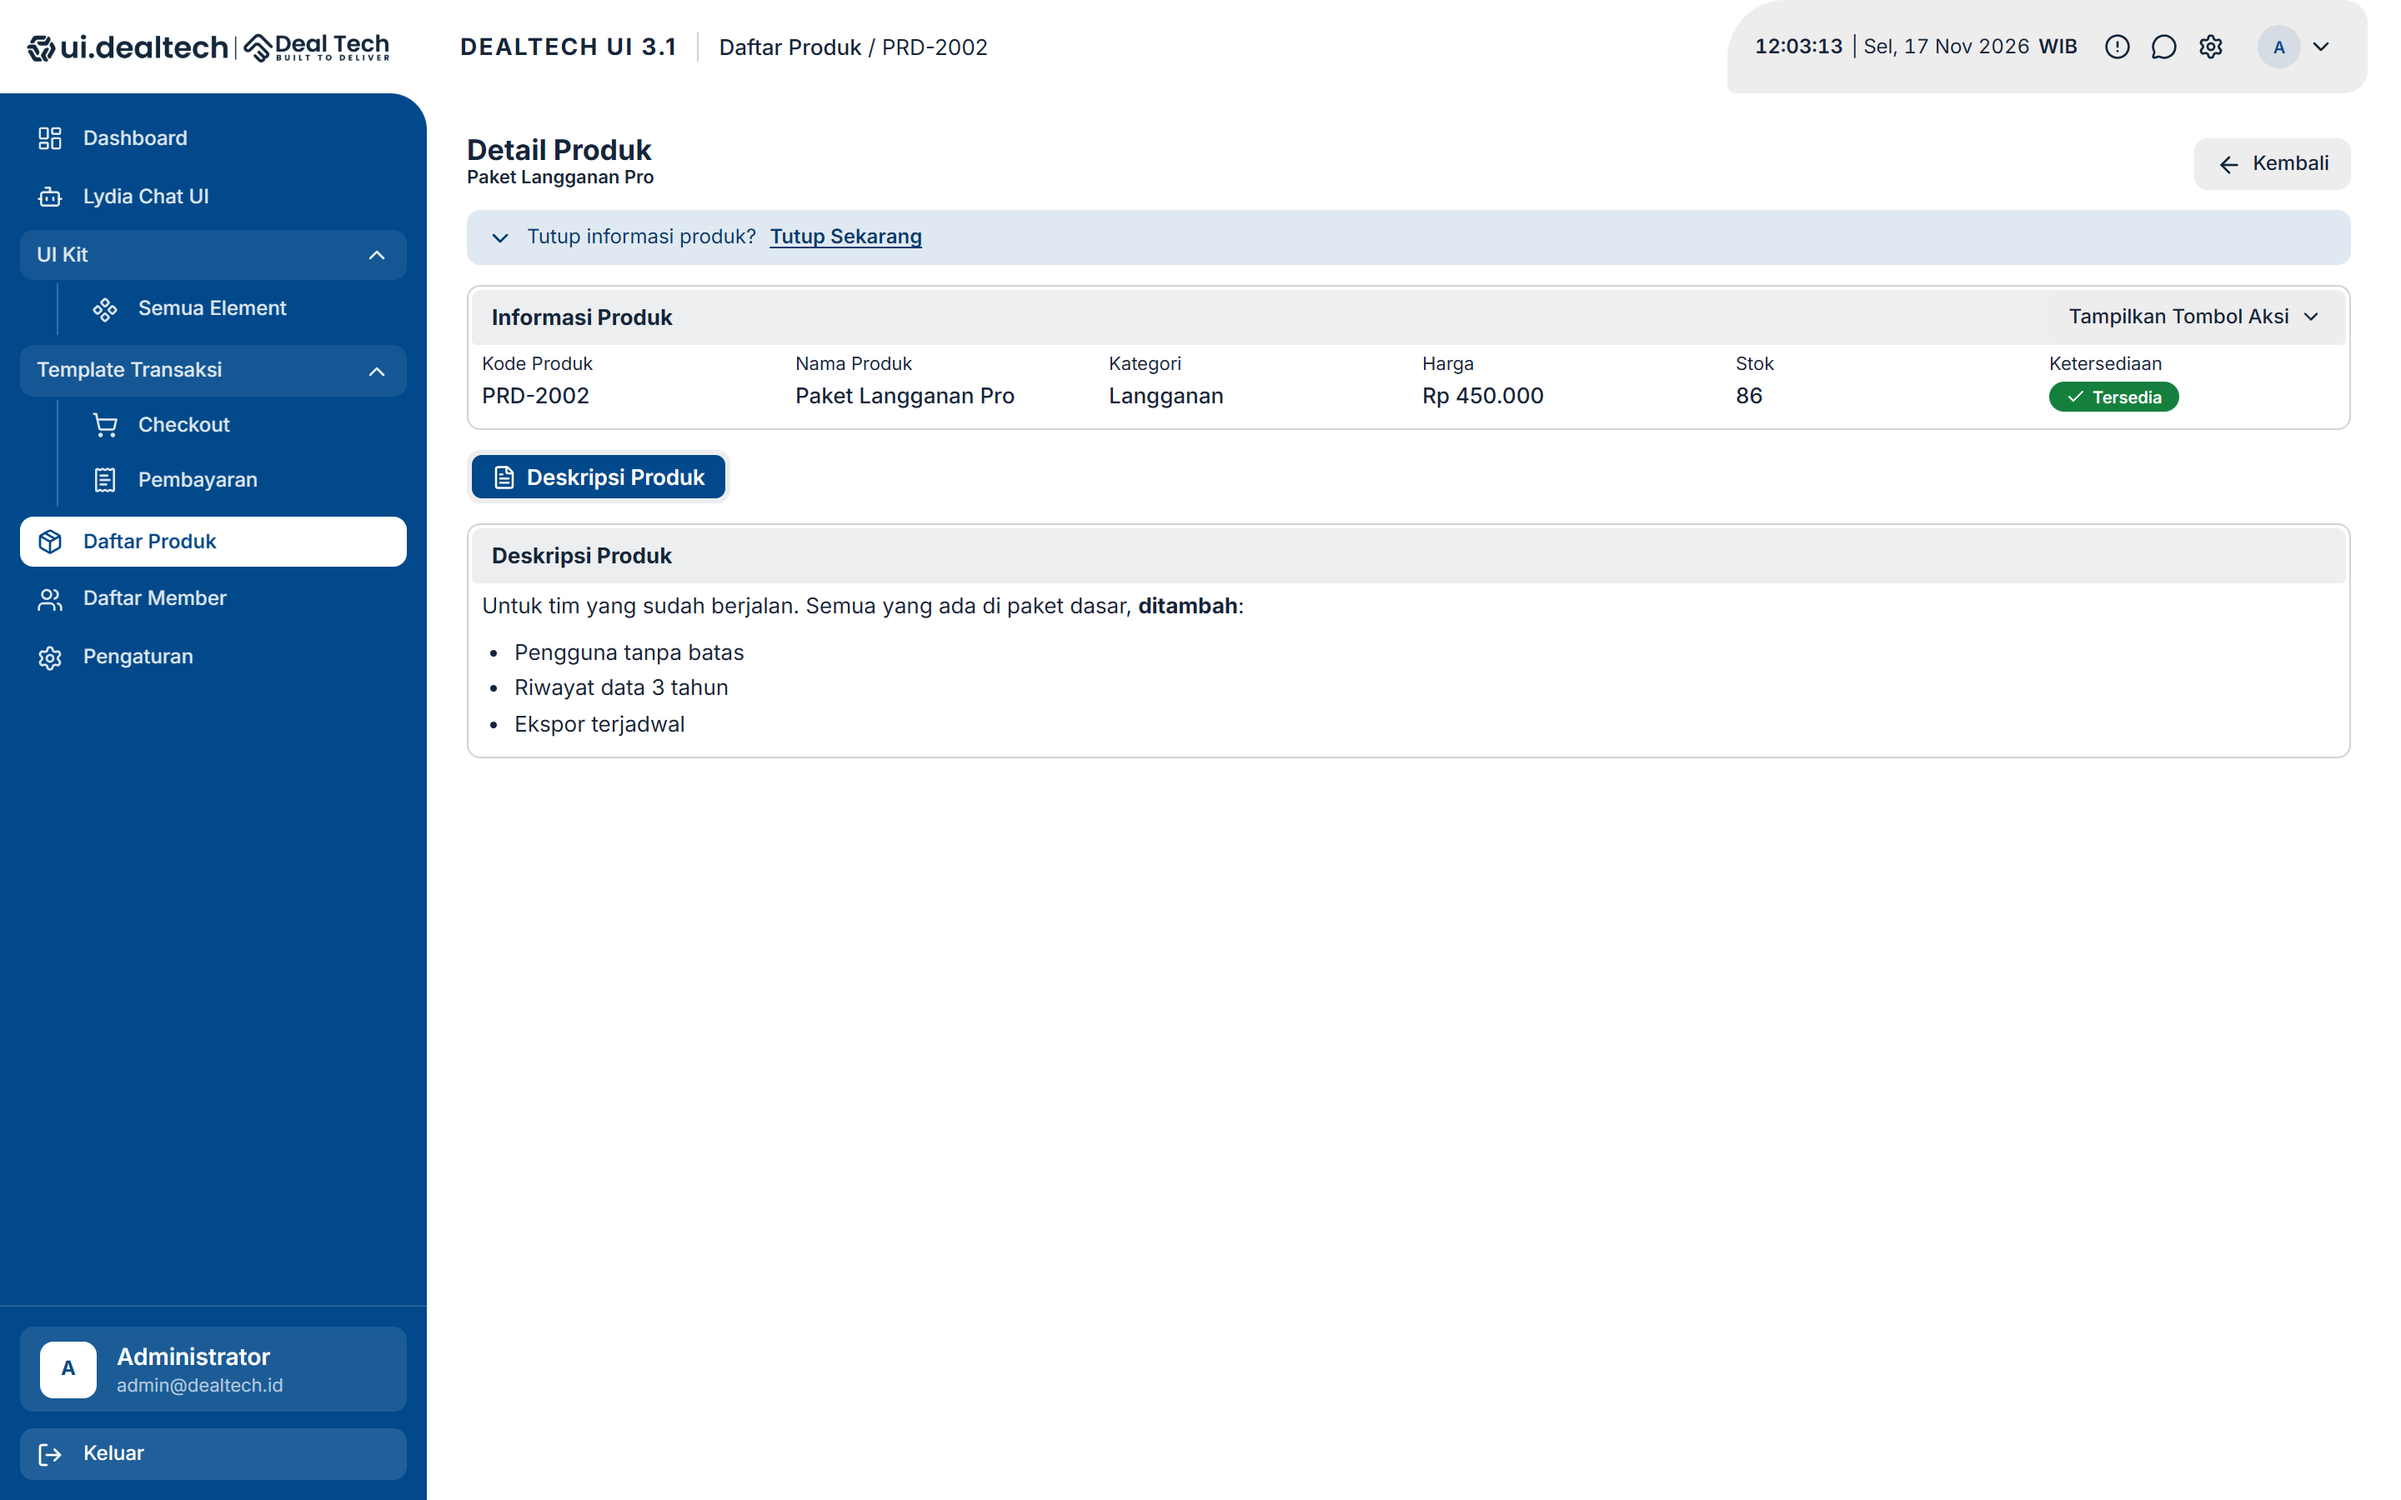
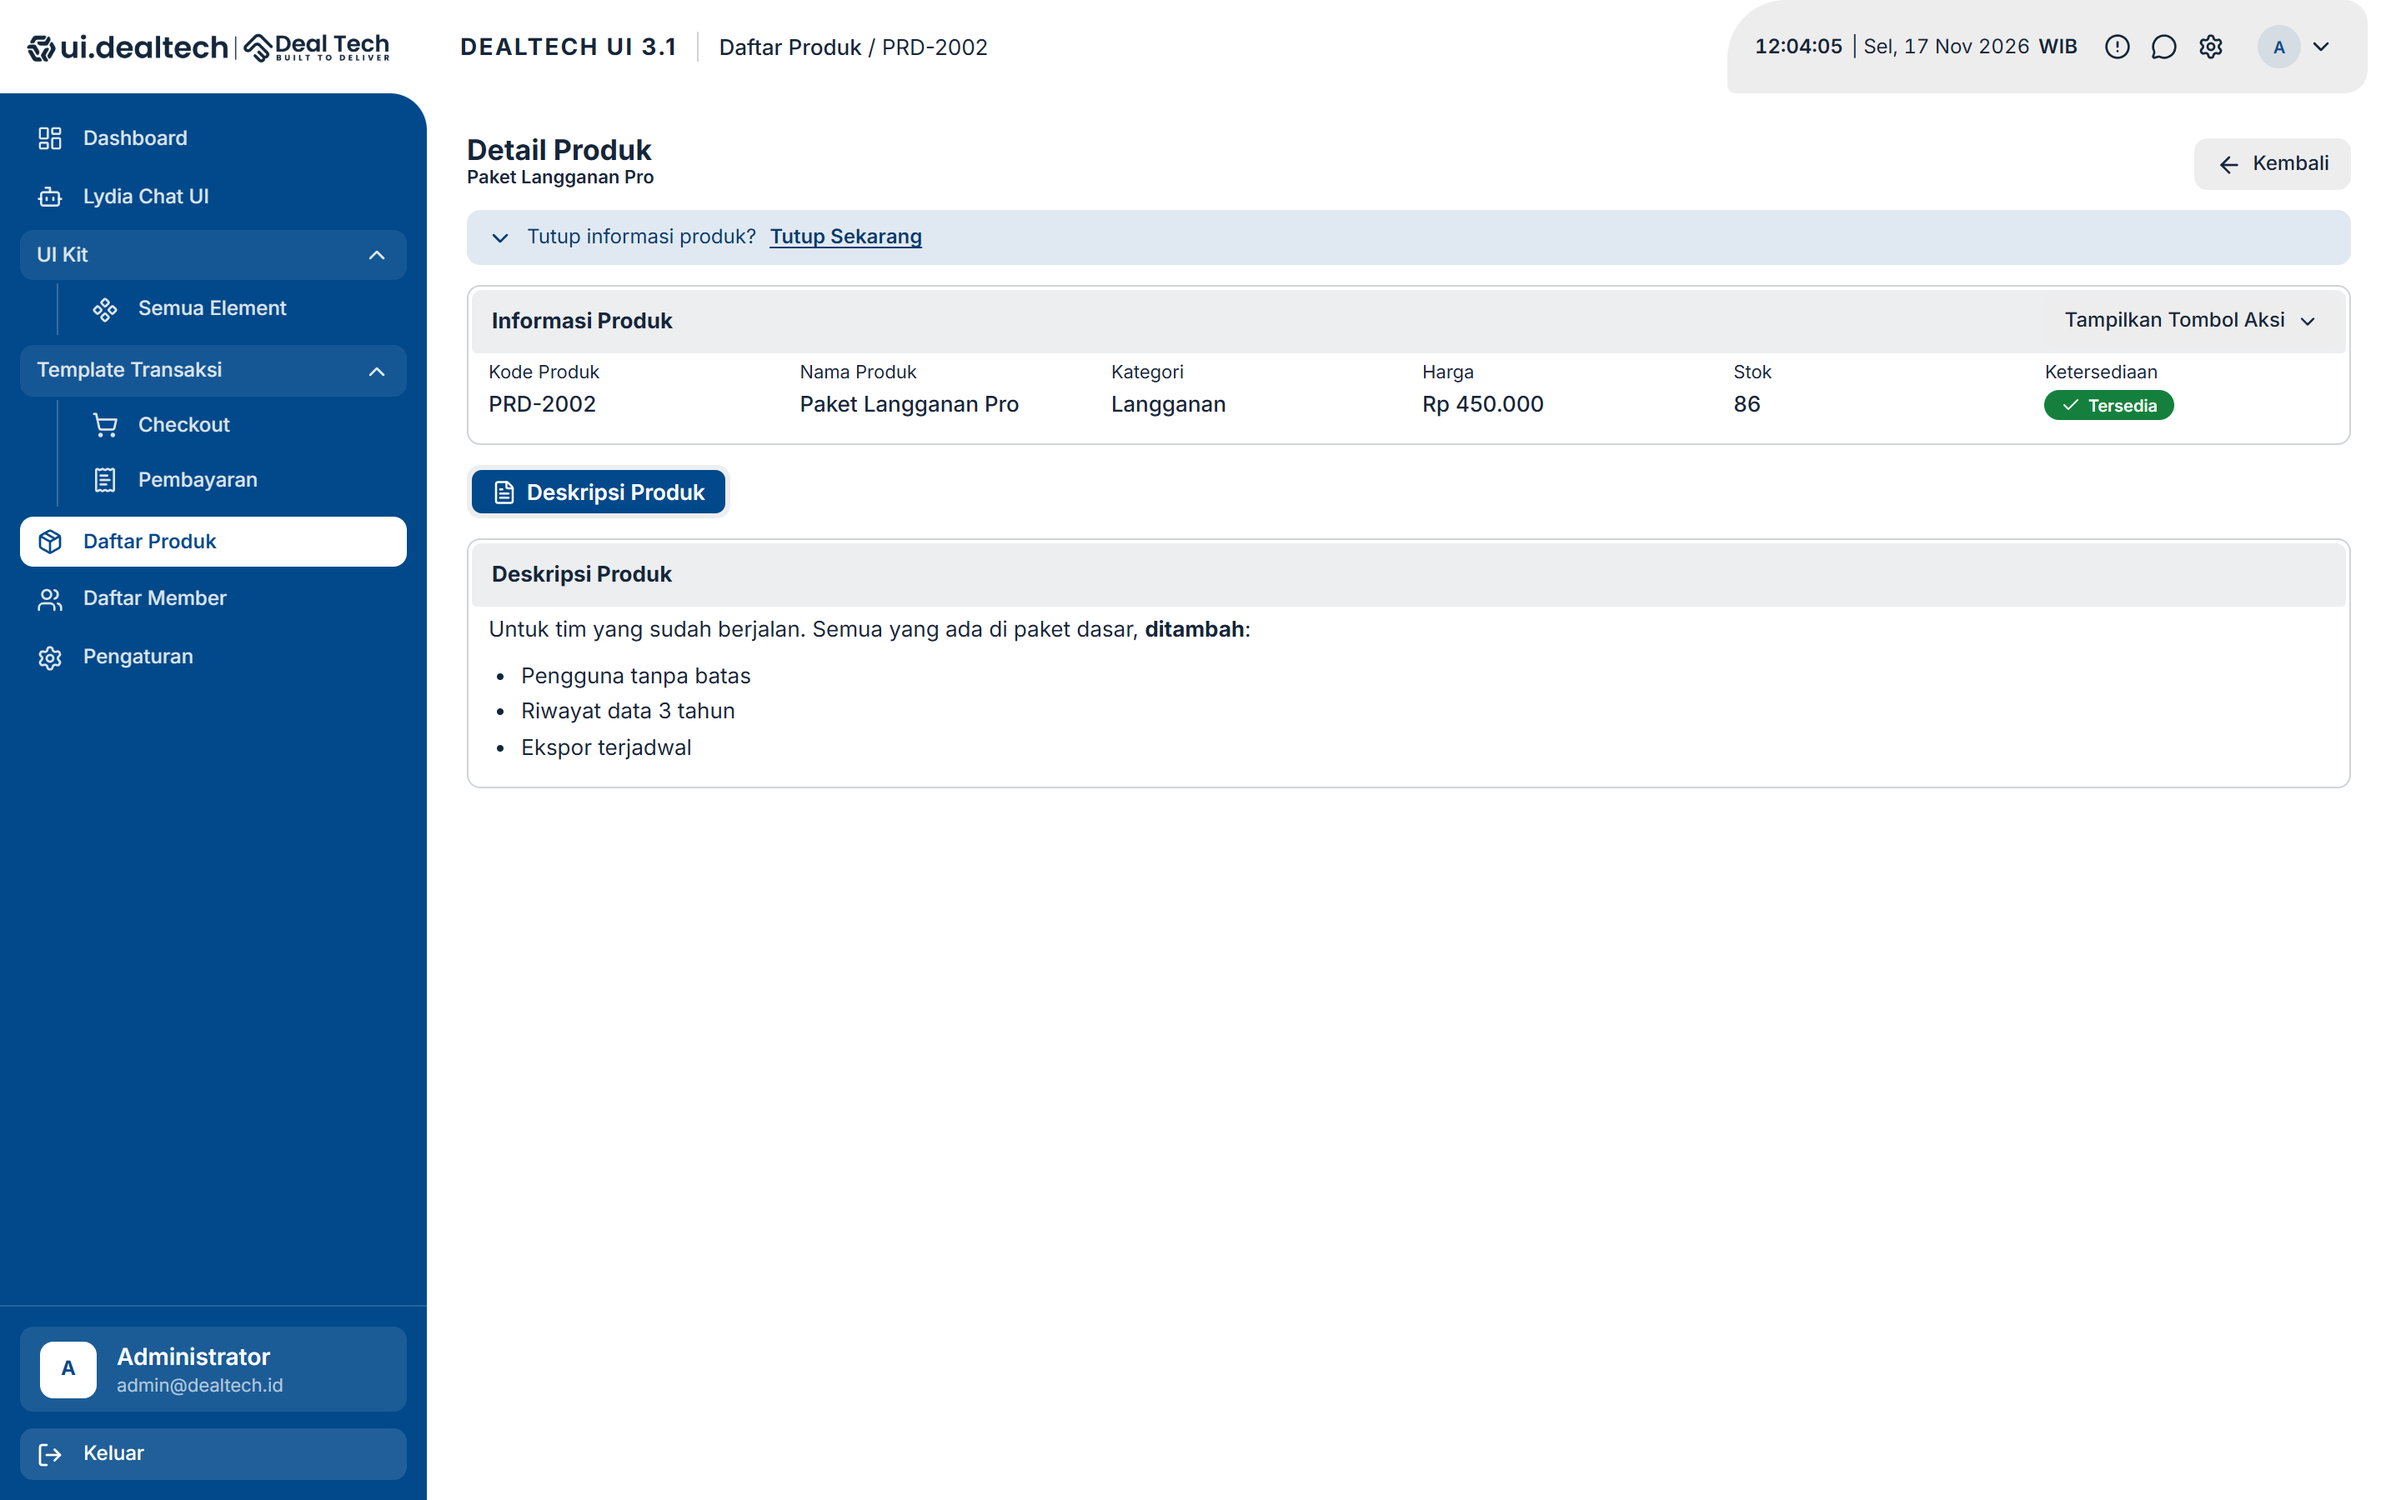
improve section header and body spacing back halfway

diff --git a/templates/starter-v3.1/src/components/ui/seksi/seksi.css b/templates/starter-v3.1/src/components/ui/seksi/seksi.css
@@ -1,10 +1,10 @@
 .seksi__kepala {
   display: flex;
-  min-height: 32.8px;
+  min-height: 37.8px;
   align-items: center;
   gap: 10px;
   margin: 2px 2px 0;
-  padding: 1px 1px 1px 6px;
+  padding: 3.5px 3.5px 3.5px 6px;
   border-radius: 6px 6px 3px 3px;
   background: var(--app-fill-strong);
 }
@@ -27,12 +27,12 @@
 }
 
 .seksi__aksi > a {
-  padding-right: 11px;
+  padding-right: 8.5px;
 }
 
-/* Isi: setengah jarak lama */
+/* Isi: tiga perempat jarak lama */
 .seksi .app-section-body {
-  padding: 8px;
+  padding: 12px;
 }
 /* Jarak ke kepala = header tabel */
 .seksi__kepala + .app-section-body,
@@ -58,7 +58,7 @@
   }
 
   .seksi .app-section-body {
-    padding: 5px;
+    padding: 7.5px;
   }
   .seksi__kepala + .app-section-body,
   .seksi__kepala + * > .app-section-body:first-child {

diff --git a/CHANGELOG.md b/CHANGELOG.md
@@ -13,7 +13,7 @@ Starter baru di `templates/starter-v3.1`, dipasang lewat `dealtech-ui-v3.1` atau
 - Toolbar tabel dan bar aksi massal jadi bar abu yang sama tingginya (42,8px), menempel 2px dari tepi kartu dengan sudut atas sejajar radius kartu. Bar massal menggantikan posisi toolbar, jadi tabel tidak bergeser saat baris dipilih.
 - Jarak tabel diseragamkan lewat `--tablelist-jarak`: tepi baris dan header sejajar bar cari, padding sel dua kali padding bar, checkbox tepat di tengah.
 - Kepala `Modal` jadi bar abu setinggi bar cari tabel (42,8px, 2px dari tepi, sudut atas sejajar radius kartu); Esc menutup dropdown yang terbuka dulu, baru modalnya.
-- Kepala `Seksi` jadi bar abu ringkas setinggi tombol + 2px (32,8px), badan seksi memakai setengah padding lama (8px, 5px di HP), dan jarak kepala ke isi 4px sama dengan jarak header tabel ke baris data.
+- Kepala `Seksi` jadi bar abu ringkas (37,8px), badan seksi memakai padding 12px (7,5px di HP), dan jarak kepala ke isi 4px sama dengan jarak header tabel ke baris data.
 - Isian setinggi tombol dan butir menu sidebar (`--app-control-h` = 30,8px); isian galat cukup berubah warna border.
 - Kartu statistik berbentuk segmen chevron yang saling mengunci, warna mengikuti kolom (`--app-stat-1` s.d. `--app-stat-5`), paling banyak lima per baris, plus prop `memuat`.
 - `TabButton` dan `SearchInput` punya gaya `pil`, dan tab di halaman Pengaturan serta detail produk kini memakai `gaya="pil"`; `PageTitle` meratakan tombol ke bawah judul; animasi `TombolTuang` dua kali lebih cepat dan bisa difokuskan dari luar.
